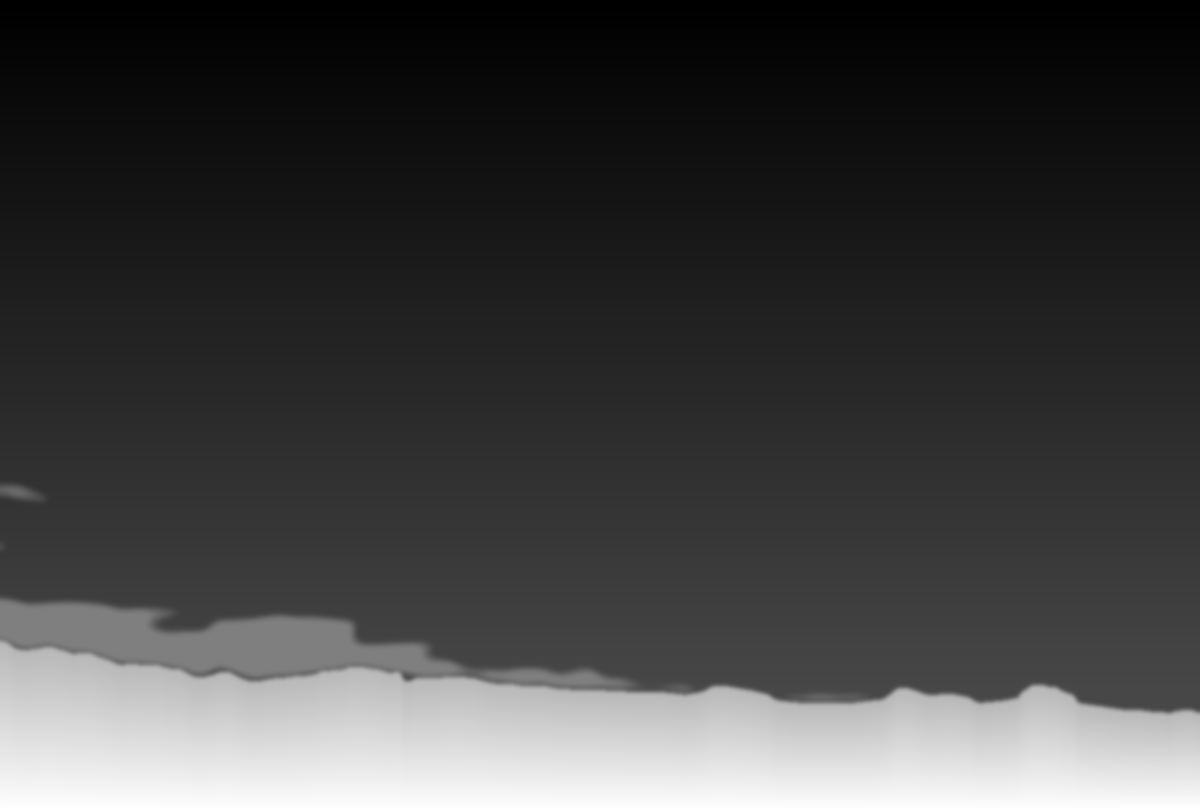
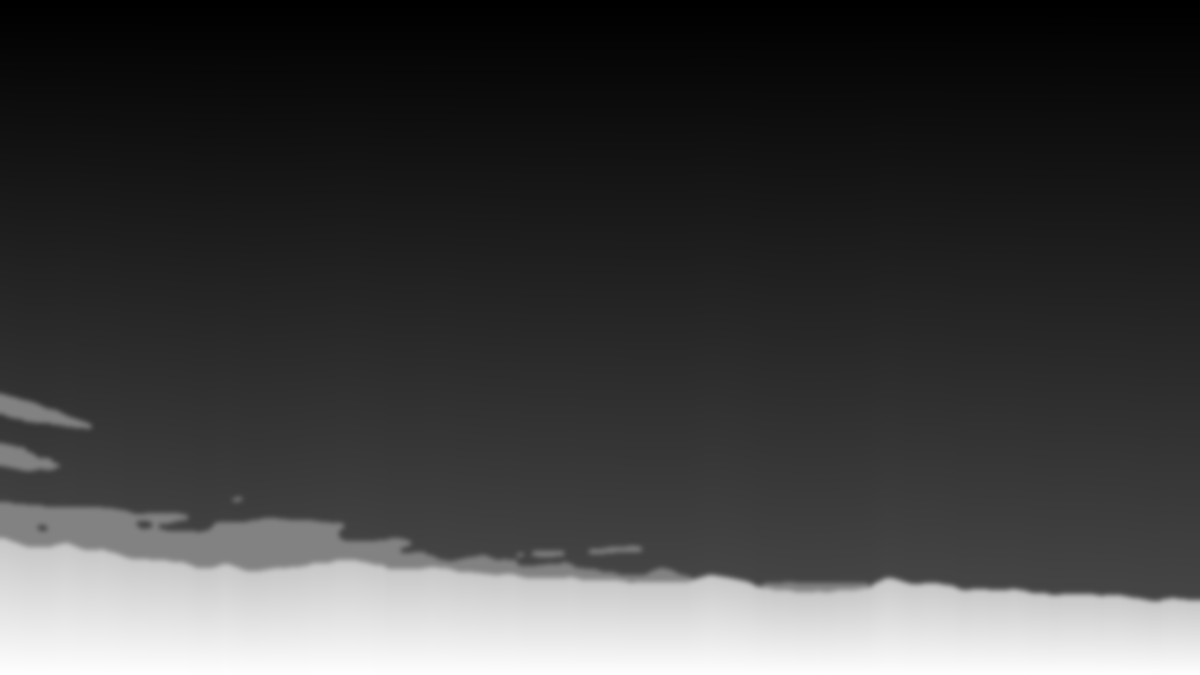
별자리 화면: 멈춰 있을 때 그리기 쉼, 배경 사진을 보정본으로 (#100)
* 별자리 화면 상시 부담 더 줄임

- RISING FINANCIAL STARS 반짝임: 글자 21개의 색·그림자를 직접 움직이던 것을 빛나는 사본의 불투명도만 움직이게.
  색·그림자 애니메이션은 GPU가 대신 못 해서 매 프레임 스타일 계산·다시 그리기가 일어났다 (모양은 같음)
- WebGL 사진: 마우스가 없고 처음 확대가 끝난 뒤(저절로 아주 느리게 흔들리기만 할 때)는 두 프레임에 한 번만 그림

Claude-Session: https://claude.ai/code/session_01KpaUV9y6SqkEd4U9y6pzqy

* 별자리 그리기를 멈춰 있을 때 쉬게, 배경 사진을 고해상도 업스케일본으로

- WebGL 사진: 처음 14초 확대 연출 뒤 마우스가 없으면 움직임이 멎는 대로 그리기를 멈춤 (마지막 장면이 그대로 남음). 마우스가 움직이면 다시 그림.
  저절로 흔들리던 효과는 연출 동안만
- 시차 루프도 움직임이 멎으면 쉼
- 배경 사진: 데스크톱 sky.webp 3200×2153 (589KB), 모바일 sky-m.webp는 원본 가운데 40%를 1189×2000으로 (229KB, 세로 화면에서는 가운데만 보여서).
  모바일용 깊이 지도 sky-depth-m.png도 같은 범위로 자름

Claude-Session: https://claude.ai/code/session_01KpaUV9y6SqkEd4U9y6pzqy

* 별자리 배경을 보정본 B(night_sky_restored)로 교체

- 데스크톱 sky.webp: 보정본 그대로 1528×1029 (q88, 448KB). 보정 도구 출력이 이 크기라 키우지 않음
- 모바일 sky-m.webp: 가운데 40%를 원래 해상도로 611×1029 (181KB)
- 산 능선·은하수 위치가 원래 사진과 같아 깊이 지도(sky-depth.png, sky-depth-m.png)는 그대로

Claude-Session: https://claude.ai/code/session_01KpaUV9y6SqkEd4U9y6pzqy

* 별자리 배경을 16:9 보정본으로 교체, 깊이 지도 새로 만듦

- 데스크톱 sky.webp 1672×941 (q88, 497KB), 모바일 sky-m.webp 가운데 40% 669×941 (197KB)
- 보정하면서 산 능선·은하수 위치가 바뀌어 깊이 지도(sky-depth.png 1200×675, sky-depth-m.png)를 새로 만듦:
  별을 지운 사진에서 능선을 한 줄로 이어 찾고(급격한 점프 없이), 능선 위 주황빛 구름을 따로 표시.
  하늘은 위 0 → 능선 70, 구름 130, 능선 아래 땅 200 → 255 (기존 지도와 같은 값 구성)

Claude-Session: https://claude.ai/code/session_01KpaUV9y6SqkEd4U9y6pzqy

---------

diff --git a/assets/dipper.html b/assets/dipper.html
@@ -189,10 +189,13 @@ svg.lines{position:absolute;inset:0;width:100%;height:100%;overflow:visible;poin
 .motto .sp{display:inline-block;width:.9em}
 .motto.on .ch{opacity:1;filter:none;transform:none}
 .motto.solo .ch{color:rgba(240,244,252,.88);text-shadow:0 0 10px rgba(190,210,255,.45);transition:opacity .7s ease calc(var(--i)*30ms), filter .7s ease calc(var(--i)*30ms), transform .7s var(--ease) calc(var(--i)*30ms), color 1.6s ease, text-shadow 1.6s ease}
-.motto.live .ch{animation:glint 9s ease-in-out calc(var(--i)*90ms) infinite}
-@keyframes glint{0%,5%,100%{color:rgba(223,230,245,var(--a));text-shadow:none}
-  2.2%{color:rgba(255,255,255,.95);text-shadow:0 0 6px rgba(220,232,255,.85),0 0 18px rgba(160,190,255,.5)}}
+.motto .ch{position:relative}
+/* 반짝임: 빛나는 글자 사본(::after)의 불투명도만 움직인다. 색·그림자를 직접 움직이면 매 프레임 스타일 계산·다시 그리기가 일어난다 */
+.motto .ch::after{content:attr(data-c);position:absolute;left:0;top:0;color:rgba(255,255,255,.95);text-shadow:0 0 6px rgba(220,232,255,.85),0 0 18px rgba(160,190,255,.5);opacity:0;pointer-events:none}
+.motto.live .ch::after{animation:glint 9s ease-in-out calc(var(--i)*90ms) infinite}
+@keyframes glint{0%,5%,100%{opacity:0}2.2%{opacity:1}}
 .motto.on:hover{letter-spacing:.7em}
+.motto.on:hover .ch::after{animation:none;opacity:0}
 .motto.on:hover .ch{animation:none;color:#fff;text-shadow:0 0 8px rgba(220,232,255,.9),0 0 22px rgba(170,195,255,.6),0 0 46px rgba(140,170,255,.35);transition-delay:calc(var(--i)*25ms)}
 .sky.shine .seg{stroke-opacity:.75;stroke-width:1.1;transition:stroke-opacity .8s var(--ease), stroke-width .8s var(--ease)}
 .sky.shine .star.lit .glow{transform:translate(-50%,-50%) scale(1.35);opacity:1}
@@ -403,9 +406,9 @@ svg.lines{position:absolute;inset:0;width:100%;height:100%;overflow:visible;poin
   const STATIC = location.hash === '#static' || q.has('static') || reduce;
   sky.addEventListener('pointermove', e => {
     tx = e.clientX/W - .5; ty = e.clientY/H - .5; px = e.clientX; py = e.clientY;
-    sky.classList.add('pointer');
+    sky.classList.add('pointer'); wake();
   });
-  sky.addEventListener('pointerleave', () => { tx = 0; ty = 0; sky.classList.remove('pointer'); });
+  sky.addEventListener('pointerleave', () => { tx = 0; ty = 0; sky.classList.remove('pointer'); wake(); });
   // 화면에 보일 때만 그린다 (스크롤해서 지나가거나 탭을 숨기면 멈춤)
   // 홈 iframe 안에서는 IntersectionObserver가 바깥 페이지 스크롤을 못 따라가서, 바깥에서 iframe 위치를 직접 본다 (같은 출처)
   let tickOn = false, lastPx = -1, lastPy = -1;
@@ -418,6 +421,7 @@ svg.lines{position:absolute;inset:0;width:100%;height:100%;overflow:visible;poin
     return r.width > 0 && r.bottom > 0 && r.top < parent.innerHeight;
   };
   const resume = () => { if (live()) loops.forEach(f => f()); };
+  function wake() { resume(); }
   document.addEventListener('visibilitychange', resume);
   if (fe) { parent.addEventListener('scroll', resume, { passive: true }); parent.addEventListener('resize', resume); }
   function tick(){
@@ -428,7 +432,9 @@ svg.lines{position:absolute;inset:0;width:100%;height:100%;overflow:visible;poin
       photo.style.transform = `translate3d(${(-x*12).toFixed(2)}px, ${(-y*9).toFixed(2)}px, 0)`;
       dipper.style.transform = `translate3d(${(-x*26).toFixed(2)}px, ${(-y*18).toFixed(2)}px, 0)`;
     }
-    if (px !== lastPx || py !== lastPy) { torch.style.transform = `translate3d(${px}px, ${py}px, 0)`; lastPx = px; lastPy = py; }
+    const torchMoved = px !== lastPx || py !== lastPy;
+    if (torchMoved) { torch.style.transform = `translate3d(${px}px, ${py}px, 0)`; lastPx = px; lastPy = py; }
+    if (!moving && !torchMoved) { tickOn = false; return; }   // 다 멎으면 쉰다. 마우스가 움직이면 다시 시작
     requestAnimationFrame(tick);
   }
   const startTick = () => { if (!tickOn) { tickOn = true; requestAnimationFrame(tick); } };
@@ -439,7 +445,7 @@ svg.lines{position:absolute;inset:0;width:100%;height:100%;overflow:visible;poin
     const cv = document.getElementById('gl3d');
     const g = cv.getContext('webgl', { antialias: false, premultipliedAlpha: false });
     if (!g) return;
-    const dimg = new Image(); dimg.src = 'hero/sky-depth.png';
+    const dimg = new Image(); dimg.src = innerWidth < 760 ? 'hero/sky-depth-m.png' : 'hero/sky-depth.png';   // 모바일 사진은 가운데 40%만 잘라 쓴다 (세로 화면에서는 가운데만 보여서)
     const vs = 'attribute vec2 p;void main(){gl_Position=vec4(p,0.,1.);}';
     const fs = `precision highp float;
       uniform sampler2D I,D; uniform vec2 R,S,M; uniform float Z;
@@ -495,13 +501,15 @@ svg.lines{position:absolute;inset:0;width:100%;height:100%;overflow:visible;poin
       const dpr = Math.min(1.5, devicePixelRatio || 1), w = Math.round(cv.clientWidth * dpr), h = Math.round(cv.clientHeight * dpr);
       if (cv.width !== w || cv.height !== h) { cv.width = w; cv.height = h; g.viewport(0, 0, w, h); }
       const t = (now - t0) / 1000;
-      // 마우스가 없으면 아주 느리게 저절로 흔들린다
-      const ax = Math.sin(t * .16) * .55, ay = Math.cos(t * .11) * .35;
-      const on = sky.classList.contains('pointer');
-      mx += ((on ? x * 2 : ax) - mx) * .05; my += ((on ? -y * 2 : ay) - my) * .05;
+      // 처음 14초(확대 연출) 동안은 마우스가 없어도 천천히 흔들리고, 그 뒤로는 마우스를 따라서만 움직인다
+      const on = sky.classList.contains('pointer'), intro = t < 14;
+      const gx = intro && !on ? Math.sin(t * .16) * .55 : x * 2, gy = intro && !on ? Math.cos(t * .11) * .35 : -y * 2;
+      mx += (gx - mx) * .05; my += (gy - my) * .05;
       const z = .18 * Math.pow(Math.max(0, 1 - t / 14), 2.2);
       g.uniform2f(U('R'), w, h); g.uniform2f(U('M'), mx, my); g.uniform1f(U('Z'), z);
       g.drawArrays(g.TRIANGLE_STRIP, 0, 4);
+      // 움직임이 다 멎으면 그리기를 멈춘다 (마지막 장면이 그대로 남는다). 마우스가 움직이면 다시 시작
+      if (!intro && Math.abs(gx - mx) < .002 && Math.abs(gy - my) < .002) { drawOn = false; return; }
       requestAnimationFrame(draw);
     };
     let n = 0; const one = () => { if (++n === 2) start(); };
@@ -514,7 +522,7 @@ svg.lines{position:absolute;inset:0;width:100%;height:100%;overflow:visible;poin
   const motto = document.getElementById('motto');
   let ci = 0;
   motto.setAttribute('aria-label','Rising Financial Stars');
-  motto.innerHTML = 'RISING FINANCIAL STARS'.split('').map(c => c === ' ' ? '<span class="sp"></span>' : `<span class="ch" aria-hidden="true" style="--i:${ci++}">${c}</span>`).join('');
+  motto.innerHTML = 'RISING FINANCIAL STARS'.split('').map(c => c === ' ' ? '<span class="sp"></span>' : `<span class="ch" aria-hidden="true" data-c="${c}" style="--i:${ci++}">${c}</span>`).join('');
   motto.addEventListener('pointerenter', () => sky.classList.add('shine'));
   motto.addEventListener('pointerleave', () => sky.classList.remove('shine'));
   const copy = motto, hint = {classList:{add(){}}};
